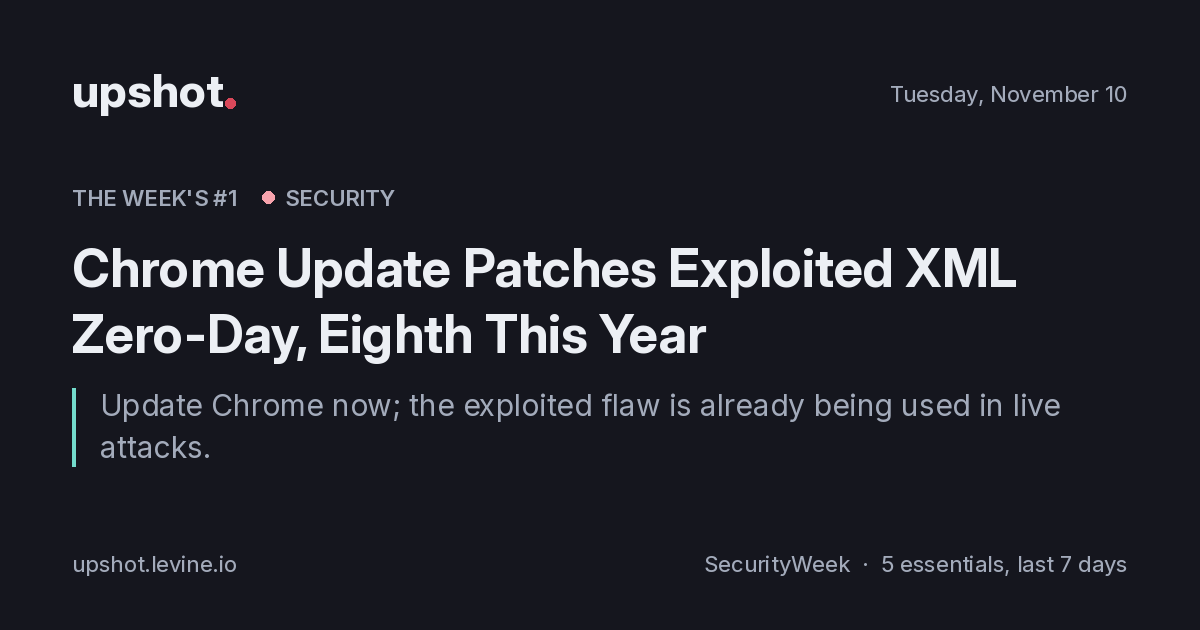
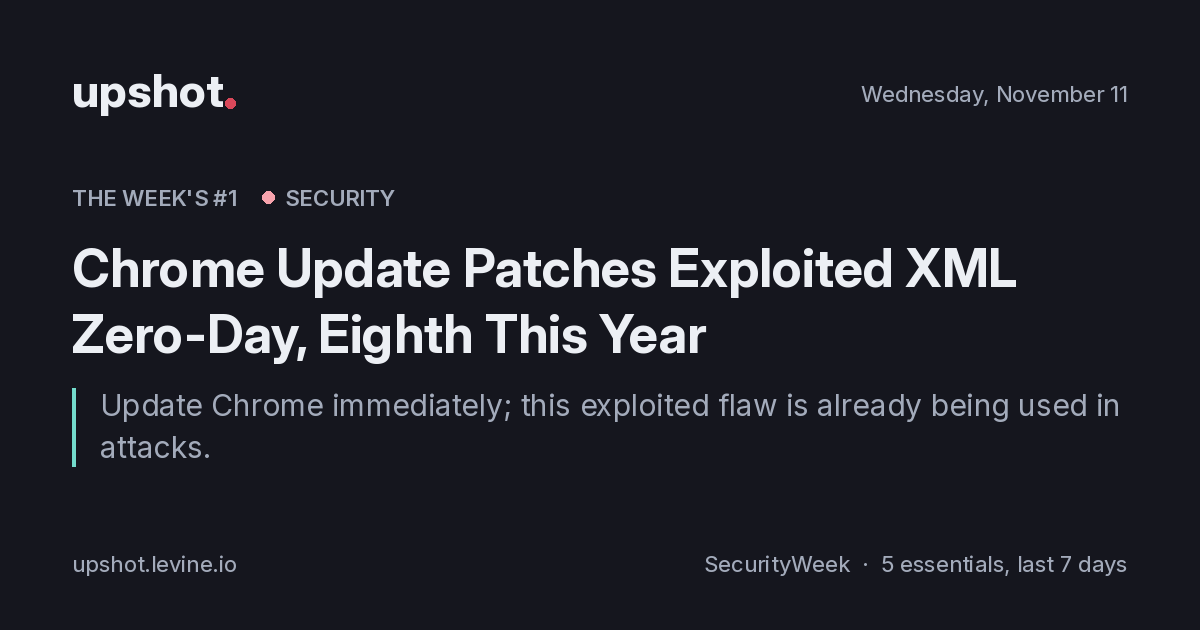
chore(data): update news

Changed region(s): [[0.2775, 0.6032, 0.925, 0.6635], [0.7092, 0.1206, 0.9558, 0.181]]

diff --git a/site/index.html b/site/index.html
@@ -10,7 +10,7 @@
 <meta property="og:title" content="Upshot · The week’s tech news, minus the noise">
 <meta property="og:description" content="Daily tech news on AI, security, infrastructure, engineering and regulation, summarized, with five weekly essentials and what to do about each.">
 <meta property="og:url" content="https://upshot.levine.io/">
-<meta property="og:image" content="https://upshot.levine.io/og.png?v=9b53230aa1">
+<meta property="og:image" content="https://upshot.levine.io/og.png?v=3231676b96">
 <meta property="og:image:width" content="1200">
 <meta property="og:image:height" content="630">
 <meta property="og:image:alt" content="Upshot: this week’s top story and what to do about it">
